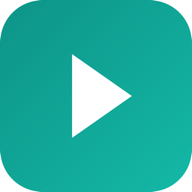
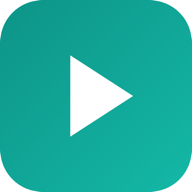
Match triangle proportions exactly to og-image.svg

diff --git a/index.html b/index.html
@@ -308,7 +308,7 @@
       <header>
         <div class="logo">
           <div class="logo-icon">
-            <svg viewBox="0 0 32 32"><path d="M12 9 L12 23 L22 16 Z" fill="white"/></svg>
+            <svg viewBox="0 0 32 32"><path d="M11.7 9.2 L11.7 22.8 L22.2 16 Z" fill="white"/></svg>
           </div>
         </div>
         <h1>YouTube Producer</h1>
